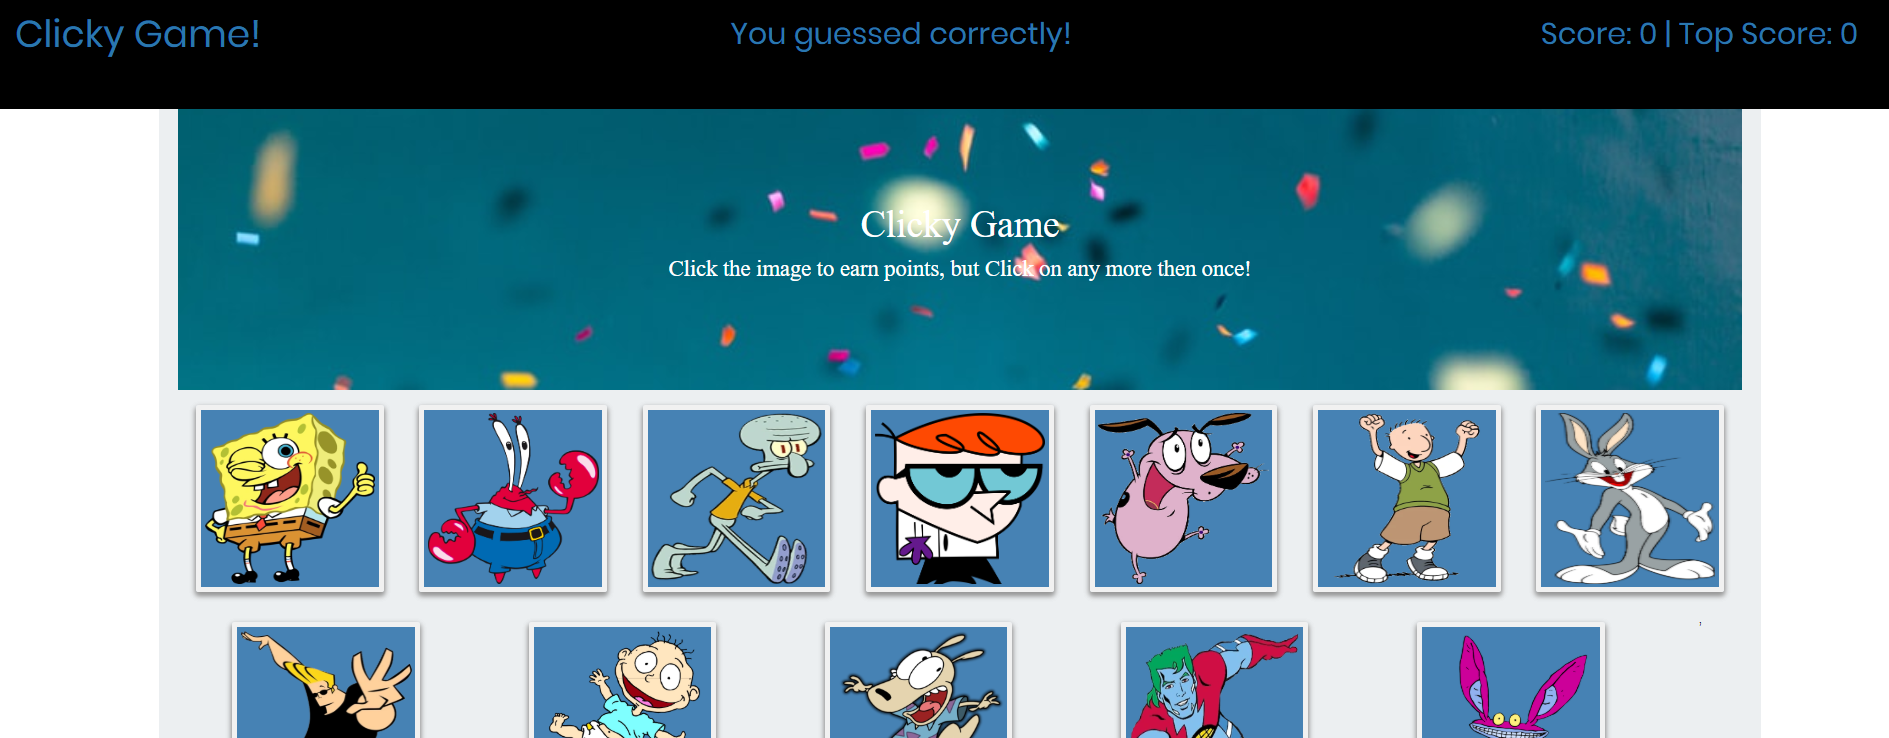
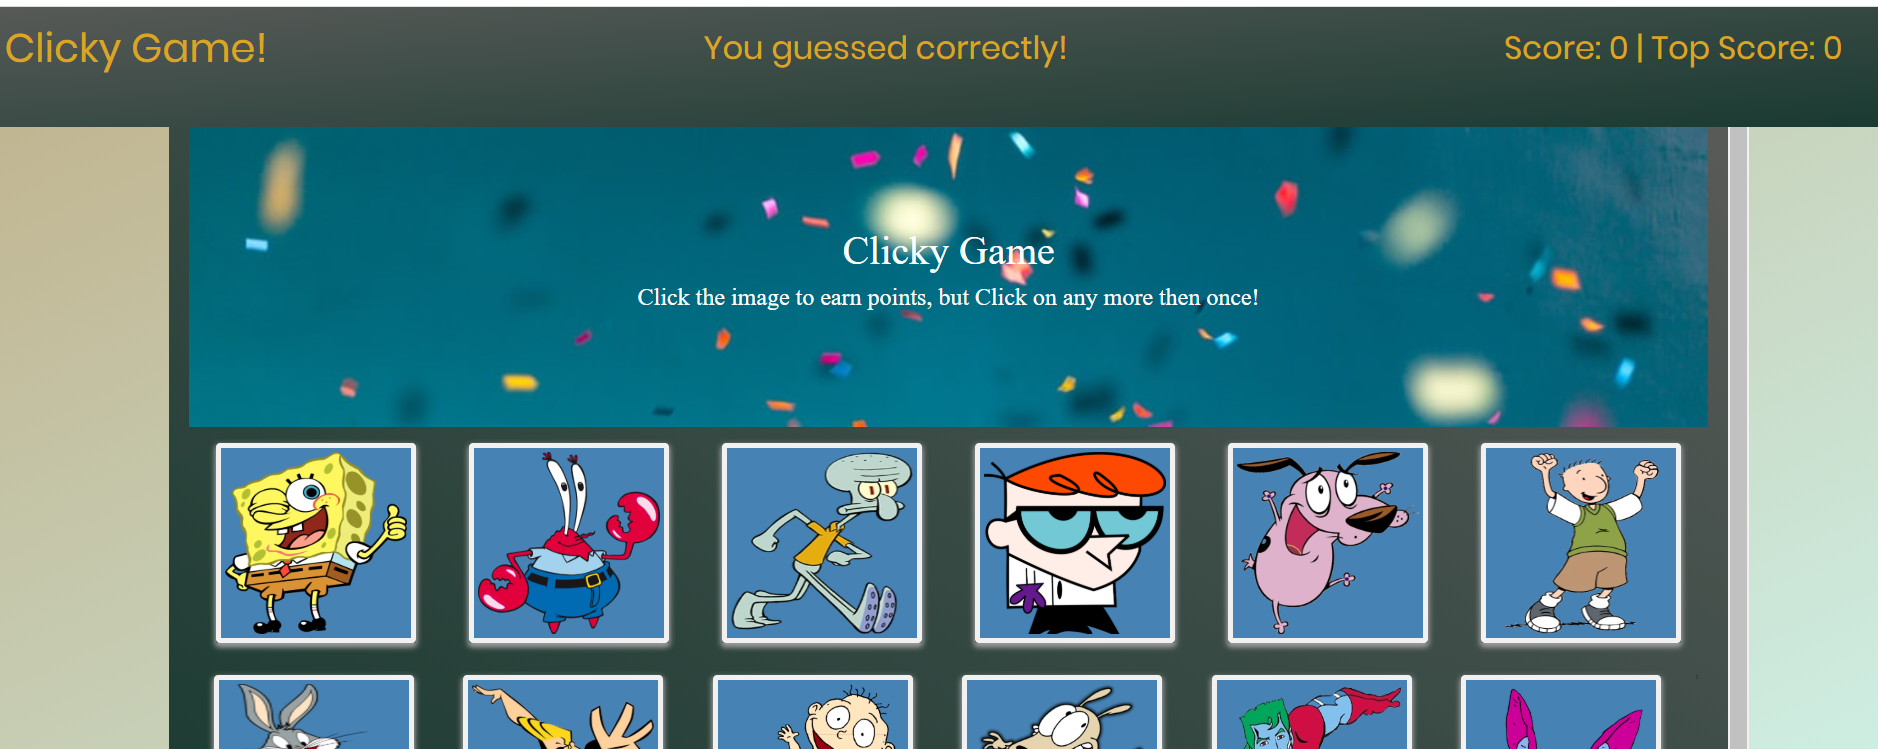
change card position

diff --git a/src/components/FriendCard/style.css b/src/components/FriendCard/style.css
@@ -5,7 +5,7 @@
 }
 
 .card {
-  background: #f9fafc;
+  background-image: linear-gradient(to right bottom, #f5ecd4, #f1f3f6);
   border-radius: 2px;
   height: auto;
   margin: 1rem;
@@ -17,7 +17,6 @@
 
 .card:hover {
   transform: scale(1.1);
-
   border: 1px solid burlywood;
 }
 .card > .img-container {
